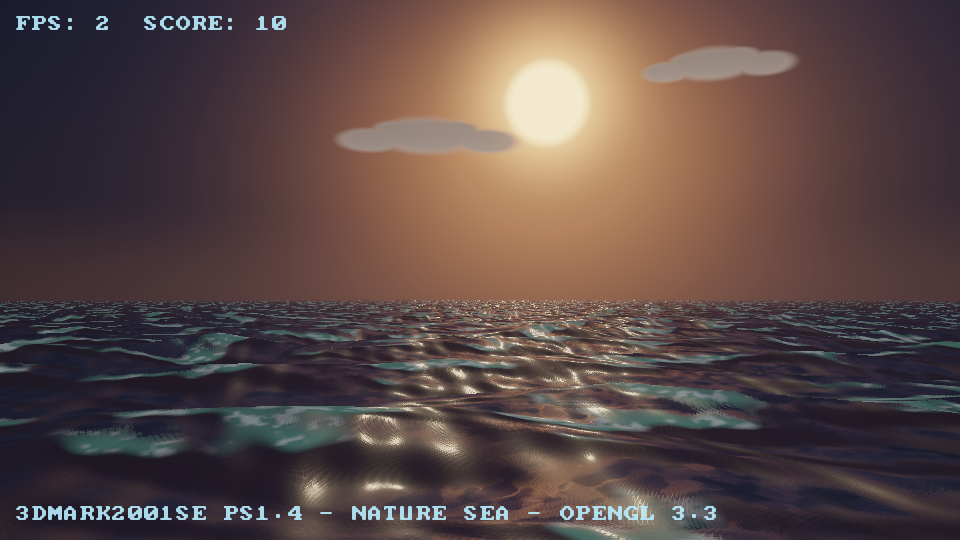
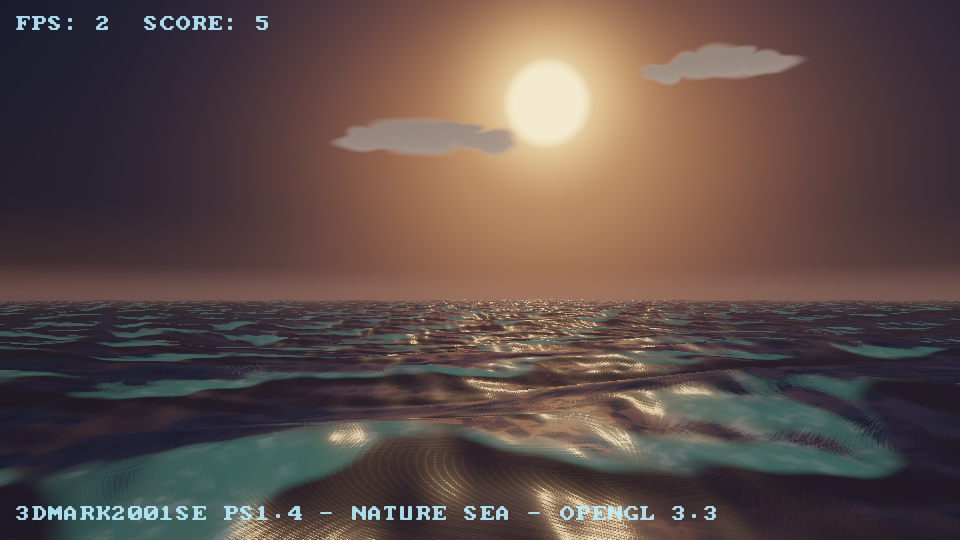
Sea/sky realism pass + README rewrite: swells with crest skew, detail wavelets, slope-gated foam, sun-tinted glitter, organic cloud edges
- sea_vert: long rolling swells + smoothstep crest skew for choppy banks
- sea_frag: near-camera analytic wavelets, slope-gated crest foam, sun-tinted glitter, sky-tinted horizon sheen
- sky_frag: organic puff silhouettes via low-frequency angular wobble (no texture content), horizon glow line
- README: correct build instructions (make legacy/ps14, STATIC=1), 110 UZIs, both benchmarks documented, score = fps^2 * 2

🤖 Generated with Codebuff

diff --git a/README.md b/README.md
@@ -1,28 +1,95 @@
-
 # ElectroBench
 ElectroBench is a 45-second long benchmark specifiacally designed to run on old and modern PCs, don't critise it by it using OpenGL 2.1, and GLSL 1.2, Even office PCs have low scores at it.
 It uses OpenGL 2.1/3.3, and C++, and uses make for compilation. It is designed to be a replacement for glmark (even though it is great and I used it before).
+
+It ships **two** benchmarks :
+
+| Benchmark | Renderer | Scene |
+|---|---|---|
+| **ElectroBench** (the OG) | OpenGL 2.1 / GLSL 1.2, fixed-function pipeline | **110 UZIs** on a shadow-mapped concrete floor, lit by a warm sun |
+| **PS1.4 Sea Benchmark** | OpenGL 3.3 core, pixel-shader workloads | A dusk ocean under volumetric clouds (3DMark2001 SE "Nature" recreation) |
 
 
 
 # Screenshots
 
-The 90 UZIs lying on the shadow-mapped concrete floor — every gun now casts its own compact shadow anchored at its contact point (warm sun from the upper left):
+The 110 UZIs lying on the shadow-mapped concrete floor — every gun casts its own compact shadow anchored at its contact point (warm sun from the upper left):
 
-![Original GL 2.1 benchmark: 90 UZIs on a shadow-mapped concrete floor](docs/screenshots/uzi_wide.png)
+![Original GL 2.1 benchmark: 110 UZIs on a shadow-mapped concrete floor](docs/screenshots/uzi_wide.png)
 
 Close-up — mags resting on the ground, shadows clearly visible under each gun:
 
 ![Close-up: UZIs with mags on the ground and per-gun shadows](docs/screenshots/uzi_close.png)
 
+The PS1.4 sea benchmark — long cloud banks with sunward silver linings, a narrow orange glitter path down the middle of the sea, dark blue-purple water either side, raised swell banks:
+
+![PS1.4 sea benchmark](docs/screenshots/ps14_dusk_t36.png)
+
+# How to build ?
+
+Dependencies : `make`, `g++`, SDL2, GLEW, GLU (+ dev headers). On Debian/Ubuntu that is
+`libsdl2-dev libglew-dev libglu1-mesa-dev`; on Windows use MSYS2 (`pacman -S mingw-w64-x86_64-{gcc,SDL2,glew}`); on macOS `brew install sdl2 glew` (you may need `brew install make` for a GNU make).
+
+```sh
+make            # builds BOTH benchmarks
+make legacy     # only the OG GL 2.1 benchmark
+make ps14       # only the PS1.4 sea benchmark
+```
+
+Binaries land in `build/` :
+
+```sh
+./build/ElectroBench          # OG 2.1 benchmark (Linux / macOS)
+./build/ElectroBench.exe      # Windows (MSYS2)
+./build/PS14SeaBenchmark      # sea benchmark (Linux / macOS)
+./build/PS14SeaBenchmark.exe  # Windows (MSYS2)
+```
+
+## Static build
+
+Pass `STATIC=1` to link everything statically (`-static -static-libgcc -static-libstdc++` + static
+dependency archives) — handy for dropping a single exe on old machines:
+
+```sh
+make STATIC=1            # -> build/ElectroBench-static(.exe), build/PS14SeaBenchmark-static(.exe)
+make STATIC=1 legacy     # just the OG, statically linked
+```
+
+This requires the **static archives** of every dependency (e.g. MSYS2's `mingw-w64-x86_64-SDL2` ships
+`libSDL2.a` already; on Linux you need the `.a` variants of SDL2/GLEW/GLU installed). On Windows the
+static OG build links `-static-libgcc -static-libstdc++ -lopengl32 -lglu32 -lglew32 -lSDL2main -lSDL2 -mwindows` — no DLLs needed next to the exe.
+
+# The OG GL 2.1 benchmark (110 UZIs)
+
+Renders **110 UZIs** (10×11 grid) on a shadow-mapped concrete floor through the fixed-function
+pipeline, exactly like a 2001-era title: per-gun compact shadows anchored at each contact point,
+a warm directional sun, and a real-time **FPS + score HUD** drawn in a 5×7 bitmap font.
+
+Controls : long-click + move orbits the camera, mouse wheel zooms (smooth, clamped so you never clip
+into the scene), `ESC` quits. The FPS counter is a true frame-count average (SDL performance counter,
+every frame accounted) — the on-screen value is a smoothed window, the final score uses **all** frames
+of the run.
+
 # PS1.4 Sea benchmark (3DMark2001 SE "Nature" recreation)
 
-The `ps14-sea-benchmark` branch adds a second, heavier benchmark written in **OpenGL 3.3 core** that recreates the pixel shader 1.4 workload from 3DMark2001 SE: an ocean under a cloudy sky with real-time reflections.
+The sea benchmark is written in **OpenGL 3.3 core** and recreates the pixel shader 1.4 workload from
+3DMark2001 SE: an ocean under a cloudy sky with real-time reflections. It is heavy on purpose — a
+low-end machine may land in the low single-digit FPS, that is the workload working.
 
 What it renders :
-- A procedural **sky dome** with big smooth dusk cloud banks, rendered **directly at full screen resolution** — plus a cubemap capture of the same sky used for the sea's reflections (low-res there is invisible and cheap)
-- A **4 km ocean patch** (far plane 6000) displaced on the GPU by a 6-octave wave function, haze-matched to the per-azimuth horizon colour so it melts into the sky
-- Water shading structured like an asm `ps_1_4` shader: ripple-gradient **addressing** phase, a **dependent read** into the environment cubemap for reflections, then fresnel blending, sun **glitter**, foam crests and distance haze
+- A procedural **sky dome** rendered **directly at full screen resolution**: dusk gradient with a
+  bright horizon band, a compact orange sun, and a handful of **volumetric cloud banks** — explicit
+  analytic puffs with real light transport (sunward silver linings, dark anti-sun bulk, top
+  sky-light, asymmetric rims). Coverage is exact by construction: a few long banks with real gaps,
+  no noise-texture mottle
+- A **4 km ocean patch** displaced on the GPU: long rolling swells with crest-skewed banks, per-pixel
+  analytic wave normals plus near-camera detail wavelets
+- Water shading structured like an asm `ps_1_4` shader: ripple-gradient **addressing** phase, a
+  **dependent read** into the environment cubemap for reflections (roughness-matched LOD, so the sun
+  smears into a glow instead of texel squares), fresnel blending, sun-tinted **glitter** path gated to
+  the sun's azimuth (bright path down the middle, dark blue-purple water either side),
+  slope-gated crest foam, subsurface glow in thin crests, and distance haze that converges into the
+  actual per-azimuth sky colour so the far sea melts into the horizon
 - The same score formula as the main benchmark, over a 45 second run
 
 Build and run it with :
@@ -39,26 +106,21 @@ Headless visual-test flags (used to verify the render output in CI-like environm
 
 ```sh
 ./build/PS14SeaBenchmark --width 960 --screenshot /tmp/shot.ppm --shot-times 6,20,38
+./build/ElectroBench --screenshot /tmp/shot.ppm --shot-time 3
 ```
-
-The sunset scene at 35s into the run (big cloud banks, warm sun with glitter reflection, dark sea haze-matched into the horizon):
-
-![PS1.4 sea benchmark](docs/screenshots/ps14_dusk_t36.png)
 
 # How the score is calculated ?
-The score is calculated using this formula : ```fps*2/(1.01/fps)```
 
-# How to run ?
+Both benchmarks use the same formula, computed from the **average FPS over the whole run** (all
+frames, not the last second):
 
-Make sure you have `cmake, glew, libglvnd-dev, sdl2 and glu` installed and then run the following
-command on your machine after cloning repo:
-
-
-```sh
-make legacy
+```
+score = fps² × 2
 ```
 
-Controls (original GL 2.1 benchmark) : long-click + move orbits the camera, mouse wheel zooms (smooth, clamped so you never clip into the scene), `ESC` quits. The 90 UZIs stand on a shadow-mapped concrete floor lit by a warm sun.
+It is linear in nothing: twice the frames means twice the score, twice the load means a quarter of
+it — a fair curve from office PCs to gaming rigs. Both binaries print
+`Time / Average FPS / Score` at the end, and the OG also shows live FPS + score in its HUD.
 
 # Contributions
 
